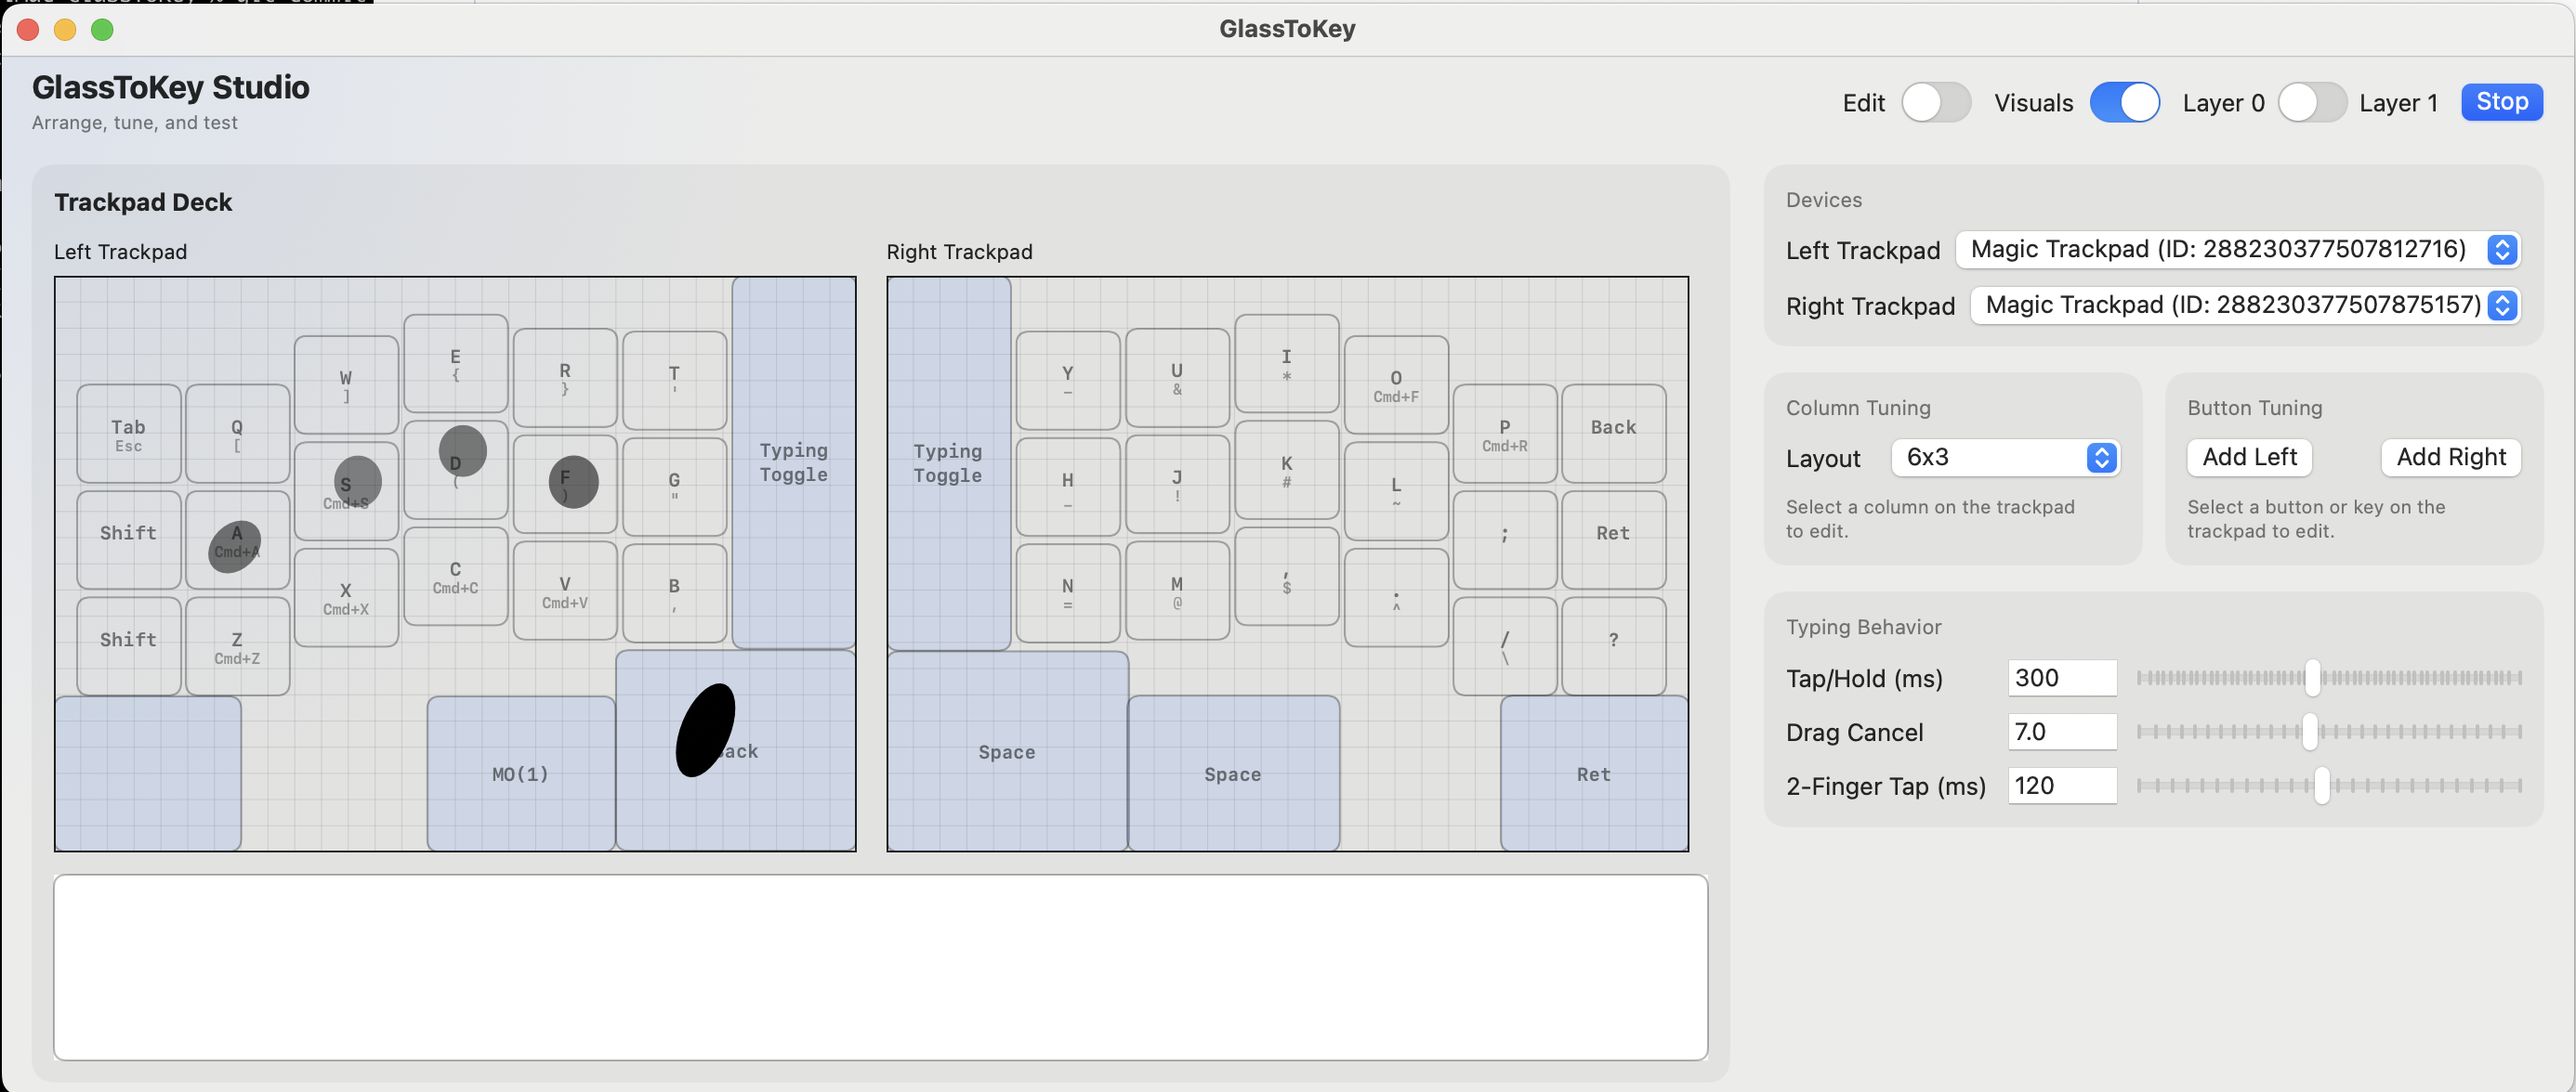
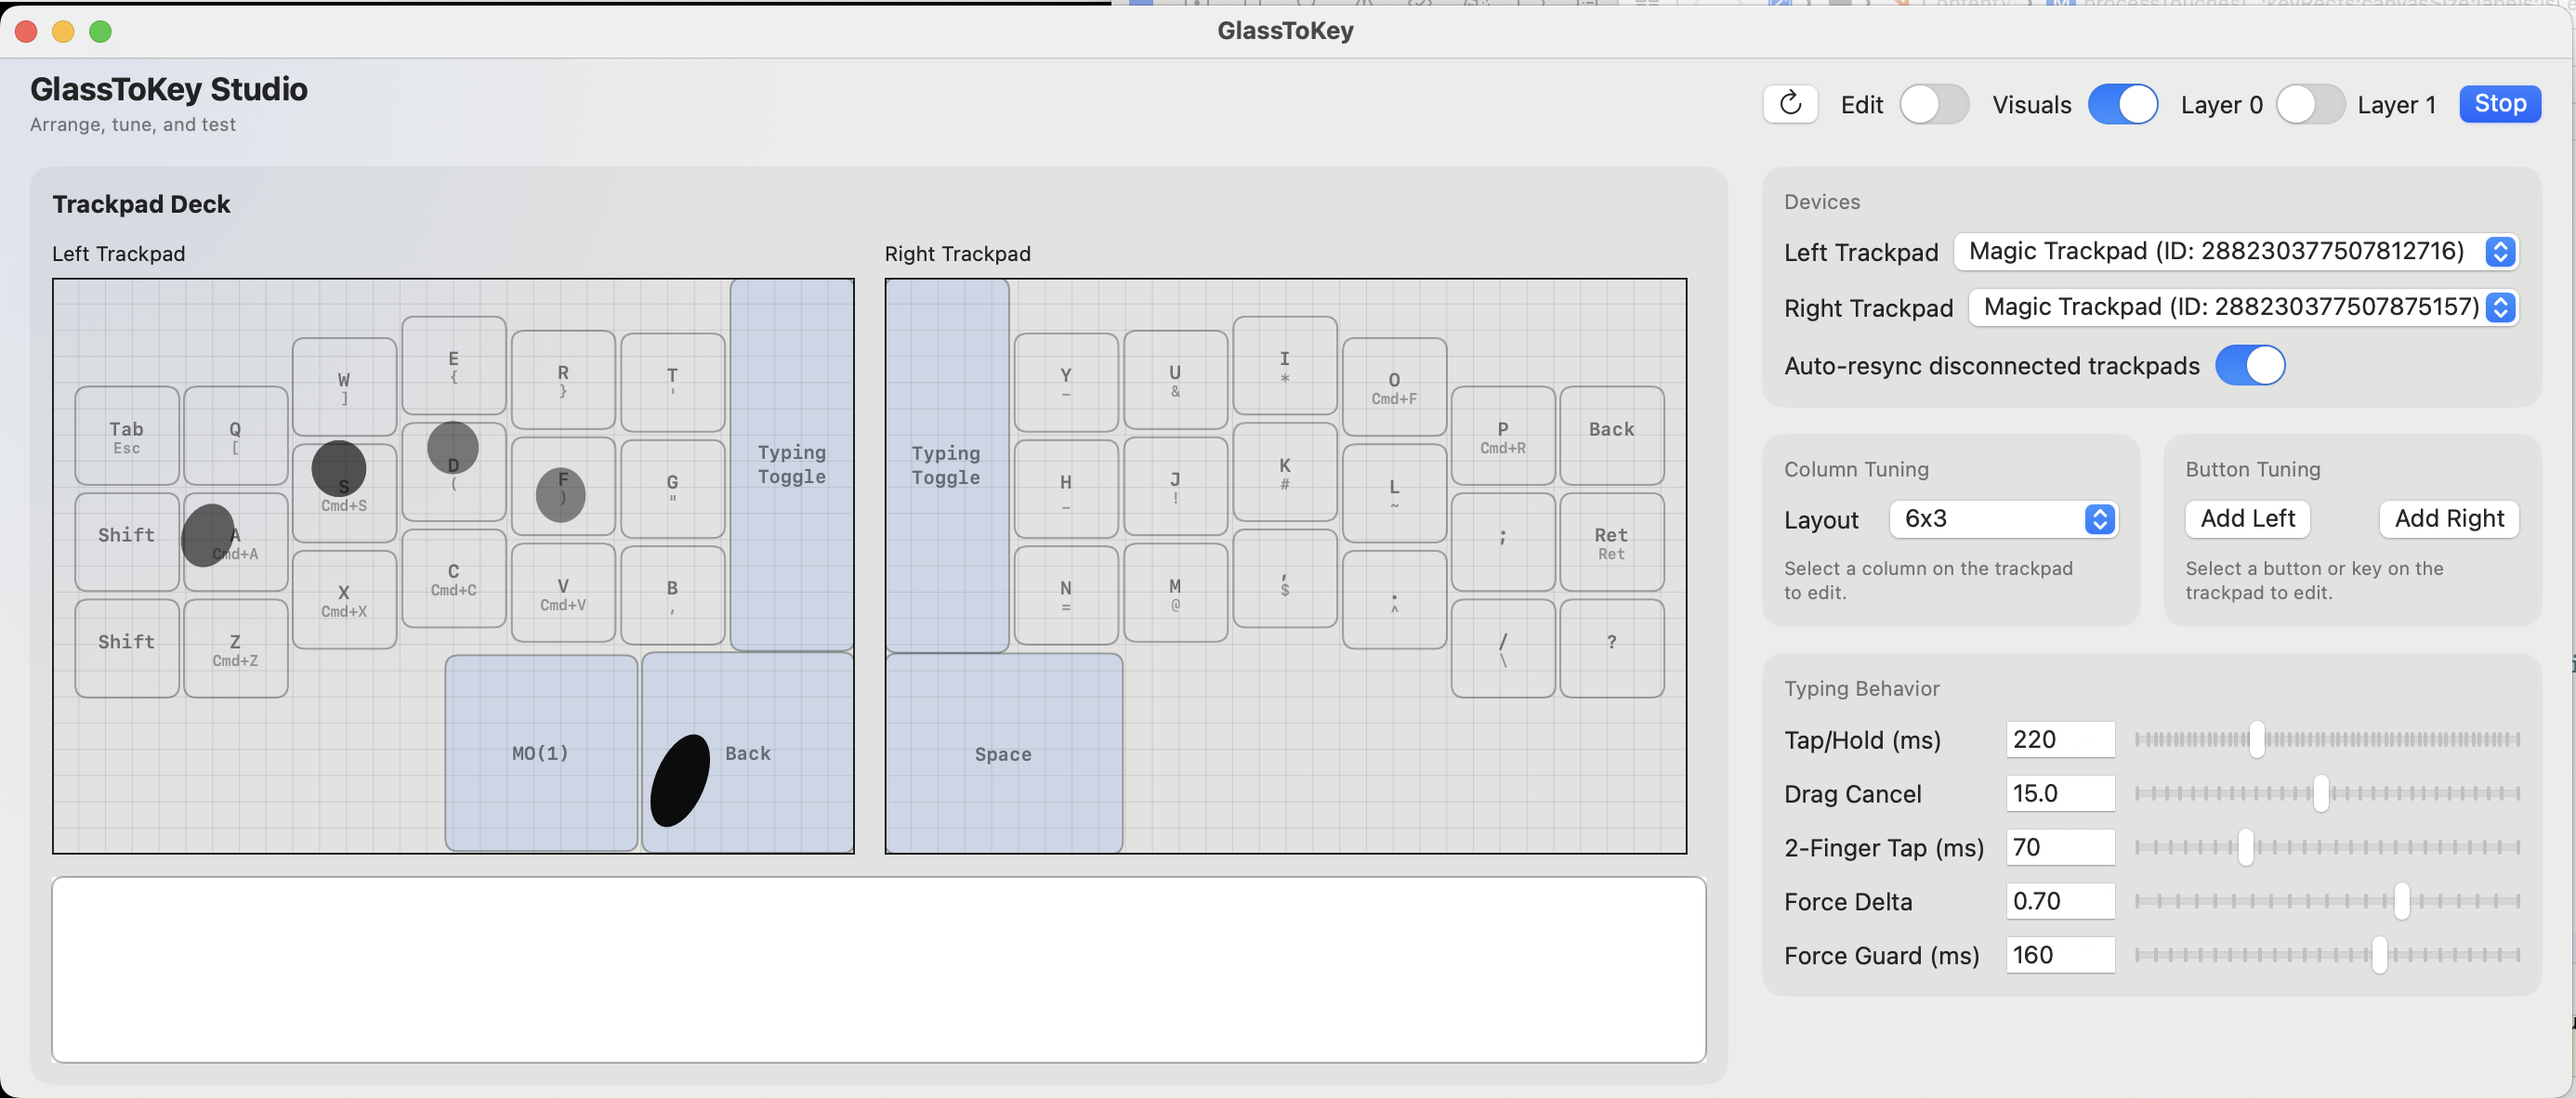
resize logic, better readme

diff --git a/GlassToKey/GlassToKey/GlassToKeyApp.swift b/GlassToKey/GlassToKey/GlassToKeyApp.swift
@@ -19,6 +19,8 @@ final class AppDelegate: NSObject, NSApplicationDelegate, NSWindowDelegate {
     private var statusItem: NSStatusItem?
     private var configWindow: NSWindow?
     private var statusCancellable: AnyCancellable?
+    private static let configWindowDefaultHeight: CGFloat = 560
+    private static let configWindowExpandedHeight: CGFloat = 760
 
     func applicationDidFinishLaunching(_ notification: Notification) {
         NSApp.setActivationPolicy(.accessory)
@@ -169,9 +171,19 @@ final class AppDelegate: NSObject, NSApplicationDelegate, NSWindowDelegate {
     }
 
     private func makeConfigWindow() -> NSWindow {
-        let contentView = ContentView(viewModel: controller.viewModel)
+        let contentView = ContentView(
+            viewModel: controller.viewModel,
+            onEditModeChange: { [weak self] enabled in
+                self?.handleConfigHeight(forEditMode: enabled)
+            }
+        )
         let window = NSWindow(
-            contentRect: NSRect(x: 0, y: 0, width: 984, height: 960),
+            contentRect: NSRect(
+                x: 0,
+                y: 0,
+                width: 984,
+                height: Self.configWindowDefaultHeight
+            ),
             styleMask: [.titled, .closable, .miniaturizable, .resizable],
             backing: .buffered,
             defer: false
@@ -182,5 +194,21 @@ final class AppDelegate: NSObject, NSApplicationDelegate, NSWindowDelegate {
         window.isReleasedWhenClosed = false
         window.delegate = self
         return window
+    }
+
+    private func handleConfigHeight(forEditMode enabled: Bool) {
+        let targetHeight = enabled
+            ? Self.configWindowExpandedHeight
+            : Self.configWindowDefaultHeight
+        adjustConfigWindowHeight(to: targetHeight)
+    }
+
+    private func adjustConfigWindowHeight(to height: CGFloat) {
+        guard let window = configWindow else { return }
+        var frame = window.frame
+        let topY = frame.maxY
+        frame.origin.y = topY - height
+        frame.size.height = height
+        window.setFrame(frame, display: true, animate: true)
     }
 }

diff --git a/GlassToKey/GlassToKey/ContentView.swift b/GlassToKey/GlassToKey/ContentView.swift
@@ -162,6 +162,8 @@ struct ContentView: View {
     private var layoutColumnAnchors: [CGPoint] { layoutOption.columnAnchors }
     private var leftGridLabels: [[String]] { layoutOption.leftLabels }
     private var rightGridLabels: [[String]] { layoutOption.rightLabels }
+    private let onEditModeChange: ((Bool) -> Void)?
+
     private var layoutSelectionBinding: Binding<TrackpadLayoutPreset> {
         Binding(
             get: { layoutOption },
@@ -169,7 +171,11 @@ struct ContentView: View {
         )
     }
 
-    init(viewModel: ContentViewModel = ContentViewModel()) {
+    init(
+        viewModel: ContentViewModel = ContentViewModel(),
+        onEditModeChange: ((Bool) -> Void)? = nil
+    ) {
+        self.onEditModeChange = onEditModeChange
         _viewModel = StateObject(wrappedValue: viewModel)
         let size = CGSize(
             width: Self.trackpadWidthMM * Self.displayScale,
@@ -674,7 +680,8 @@ struct ContentView: View {
                 endRadius: 420
             )
         )
-        .frame(minWidth: trackpadSize.width * 2 + 520, minHeight: trackpadSize.height + 440)
+        .frame(minWidth: trackpadSize.width * 2 + 520, minHeight: trackpadSize.height + 240)
+        .frame(maxHeight: .infinity, alignment: .top)
         .onAppear {
             applySavedSettings()
         }
@@ -694,6 +701,7 @@ struct ContentView: View {
                 selectedColumn = nil
                 selectedGridKey = nil
             }
+            onEditModeChange?(enabled)
         }
         .onAppear {
             viewModel.setAutoResyncEnabled(storedAutoResyncMissingTrackpads)

diff --git a/README.md b/README.md
@@ -16,6 +16,10 @@ Clicking the indicator light will allow you to view the Config or Quit the progr
 
 <img src="Screenshots/GTK_config.png" alt="GlassToKey" width="900px" />
 
+Clicking Visualize will draw the touches - it is toggleable for performance reasons.
+
+Clicking Edit will allow you to click any Column/Button and set the Action/Hold Action and set the positioning and size. (It's really laggy idk what to do, so it's in a toggle)
+
 ## Typing Behavior:
 - Tap/Hold (ms): Time in miliseconds until a tap becomds a hold
 - Drag Cancel (px): How far you need to move before top becomes a drag
@@ -24,13 +28,8 @@ Clicking the indicator light will allow you to view the Config or Quit the progr
 - Force Guard (ms): Optional hold duration after the force delta is detected before keystrokes are blocked, giving you control over how aggressively force press gestures cancel typing.
 
 ## Diagnostics (Debug Builds)
-If key presses feel dropped or laggy, you can inspect diagnostics:
-- Open Console.app and filter for subsystem `com.kyome.GlassToKey` and category `KeyDiagnostics`.
 - Logs include key dispatches and disqualification reasons (drag cancelled, two-finger suppression, typing disabled, etc.).
 - Performance profiling uses `OSSignposter` intervals around touch processing.
-
-## FUTURE
-- Add functionality to use trackpad as a scale! Lovely repo @ https://github.com/KrishKrosh/TrackWeight
 
 ---
 
